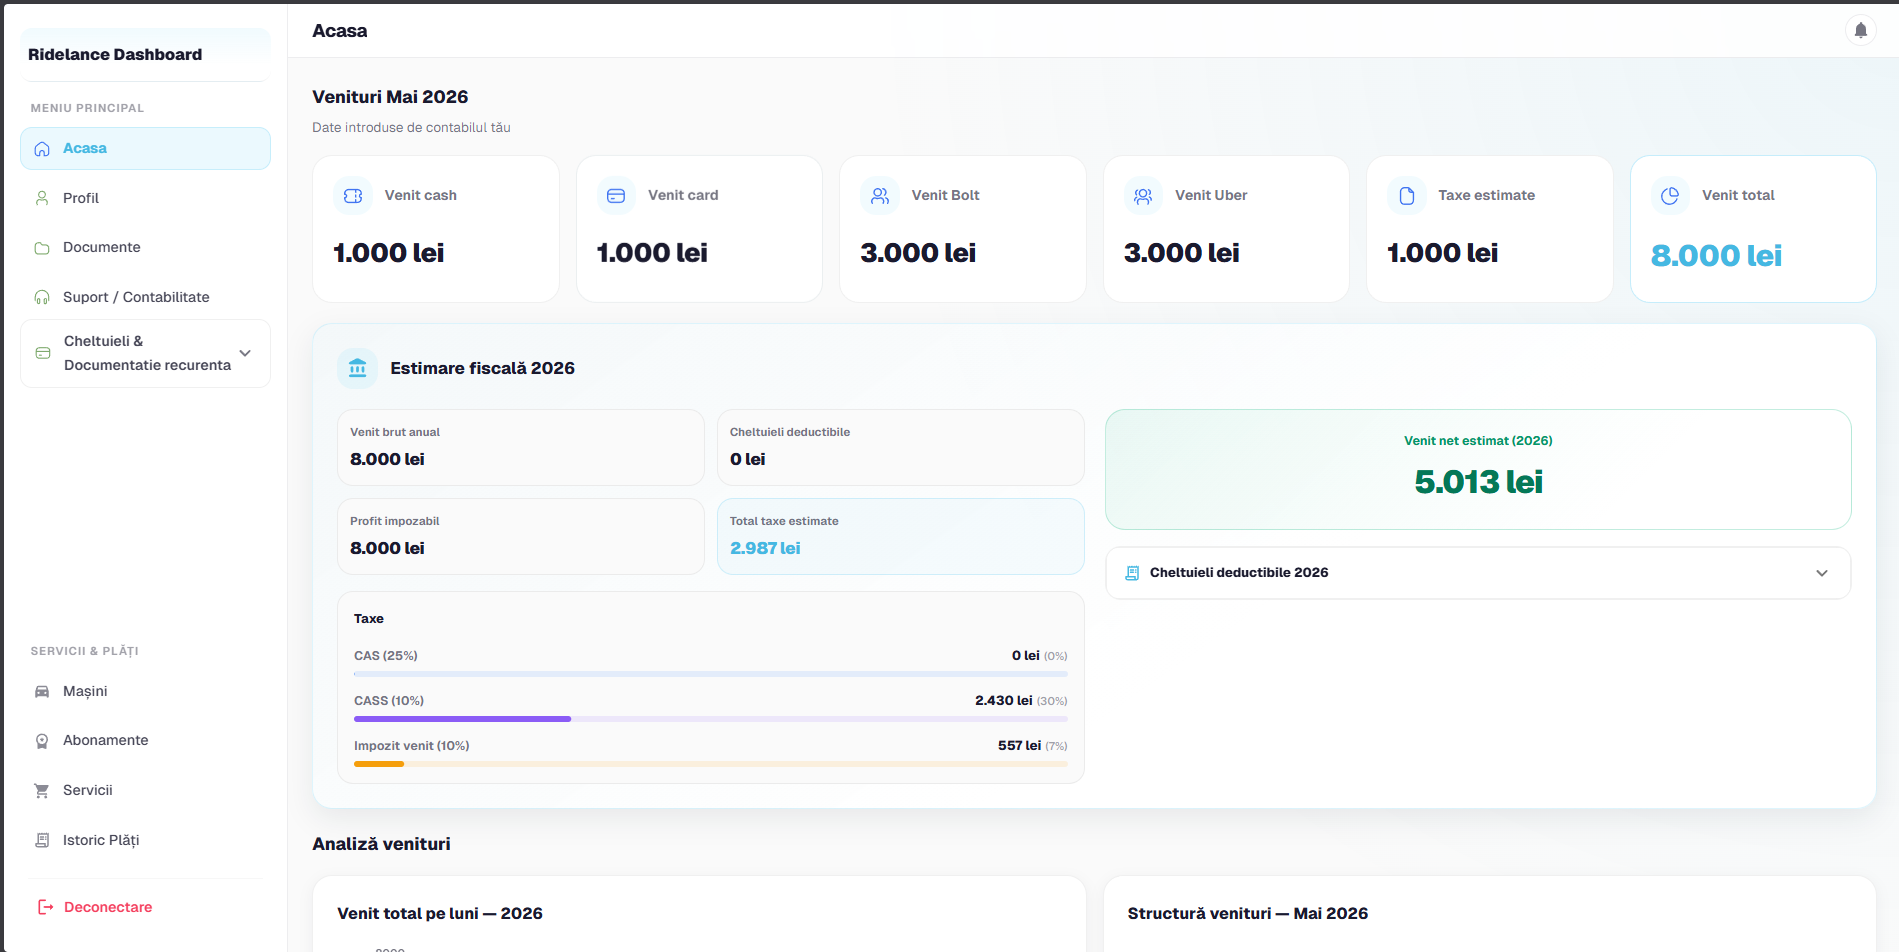
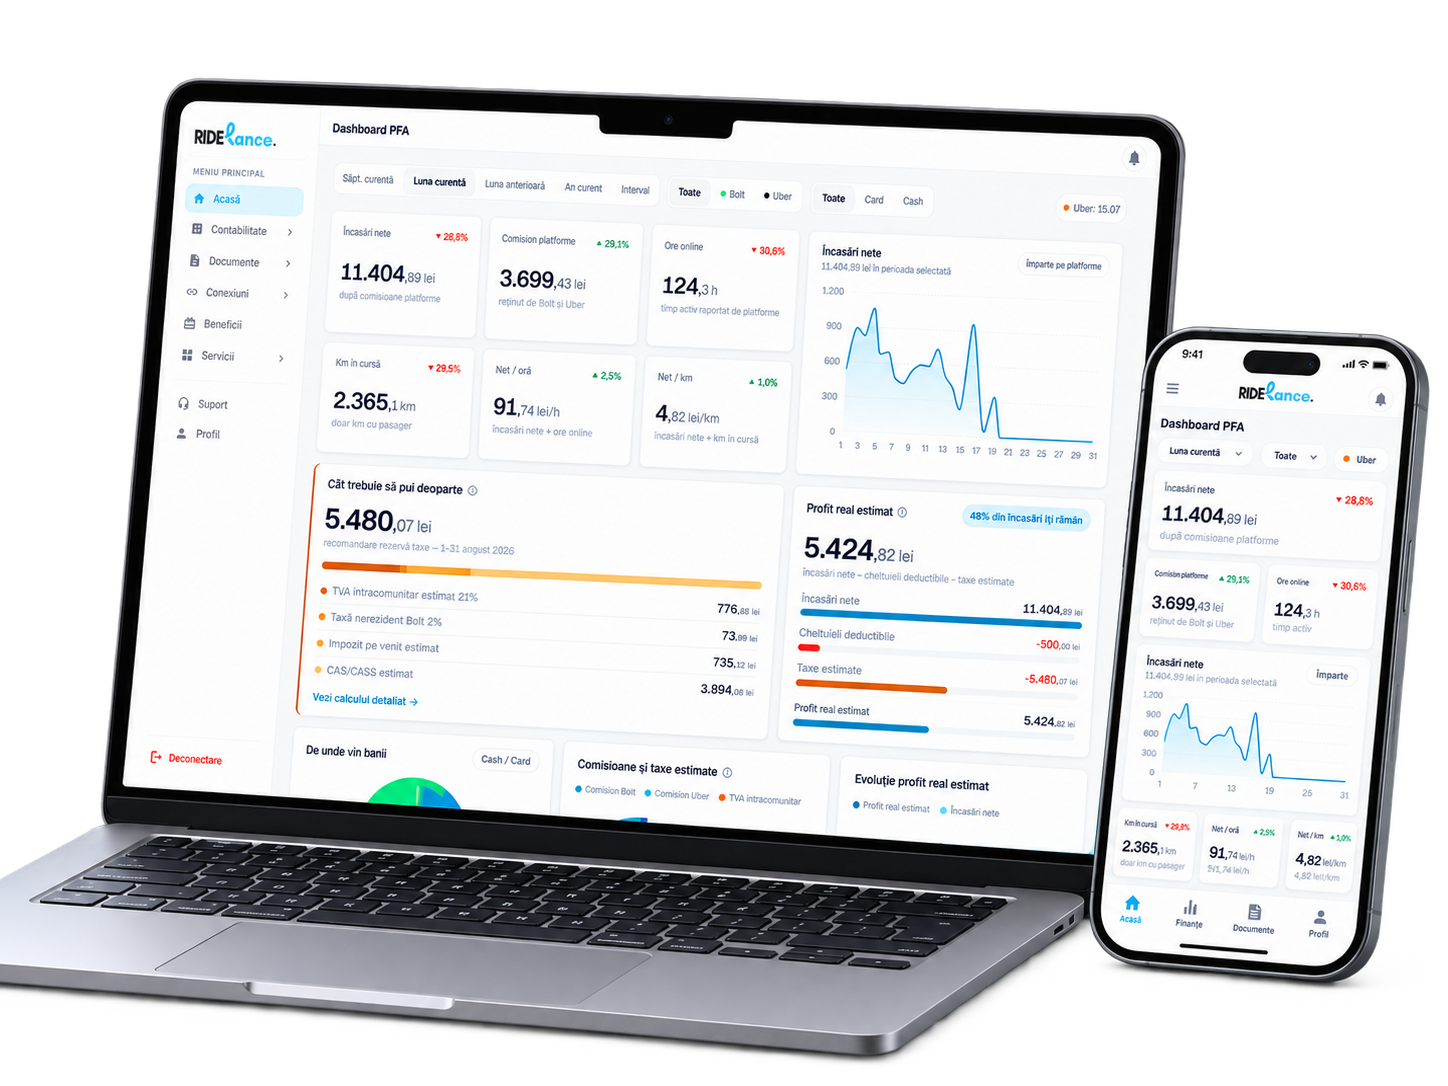
Let the location be changed when editing a car, not only when adding
Coordinates could only ever be set through the add wizard, so every car that predates
it was stuck off the map with no way to place it. The edit dialog now carries the same
address search and pin picker, and dragging the pin fills the city and neighbourhood
back the way it does in the wizard.

details is sent whole rather than as the two coordinates, because Apply overwrites the
whole object on the server: a partial send would have wiped the plate number, the VIN
and the rest of the dossier off any car whose location was edited. The patch goes on
top of what the car already has.

Also drops the note saying Oblio does not expose received invoices. It explained an
absence, which is a thing the page does not need to do.

diff --git a/src/components/dashboard/sections/admin/CarsAdminView.tsx b/src/components/dashboard/sections/admin/CarsAdminView.tsx
@@ -24,7 +24,7 @@ import CheckCircleRoundedIcon from '@mui/icons-material/CheckCircleRounded';
 import PendingActionsRoundedIcon from '@mui/icons-material/PendingActionsRounded';
 import PaymentsRoundedIcon from '@mui/icons-material/PaymentsRounded';
 import TrendingUpRoundedIcon from '@mui/icons-material/TrendingUpRounded';
-import { carsService, getCarImageUrl, type Car, type CarLead } from '../../../../services/cars.service';
+import { carsService, getCarImageUrl, type Car, type CarLead, type CarListingDetails } from '../../../../services/cars.service';
 import carListJson from '../../../../data/car-list.json';
 import {
   formatCarStatus,
@@ -43,6 +43,27 @@ import { ListingScoreIndicator } from '../../srl/ListingScoreIndicator'
 import { Link as RouterLink } from 'react-router-dom'
 import { SRL_PATHS } from '../../../../config/srlNavigation'
 import { AddCarWizard } from '../../addCar/AddCarWizard'
+import { AddressSearch } from '../../../cars/map/AddressSearch'
+import { PinPicker } from '../../../cars/map/LazyMaps'
+import { reverseGeocode } from '../../../../lib/geocoding'
+
+/** Detalii goale, ca punct de plecare când mașina n-are încă niciunul. */
+const BLANK_DETAILS: CarListingDetails = {
+  zone: null,
+  latitude: null,
+  longitude: null,
+  showExactLocation: false,
+  useCompanyContacts: true,
+  color: null,
+  seats: null,
+  minimumPeriod: null,
+  conditions: null,
+  availableFromUtc: null,
+  plateNumber: null,
+  vin: null,
+  mileage: null,
+  firstRegistrationAtUtc: null,
+};
 
 interface LocalImage {
   id: string;
@@ -137,6 +158,35 @@ export function CarsAdminView({ variant = 'admin', posterSection = 'manage' }: C
   const [uploading, setUploading] = useState(false);
   const [dragOver, setDragOver] = useState(false);
   const fileInputRef = useRef<HTMLInputElement>(null);
+
+  /*
+   * Locația se poate schimba și la editare, nu doar la adăugare.
+   *
+   * `details` se trimite întreg, nu doar coordonatele: pe server `Apply` suprascrie tot obiectul,
+   * deci o trimitere parțială ar șterge numărul de înmatriculare, VIN-ul și restul dosarului.
+   * De aceea patch-ul se așază peste ce are deja mașina.
+   */
+  const carDetails: CarListingDetails = { ...BLANK_DETAILS, ...editingCar?.details };
+
+  const patchDetails = (patch: Partial<CarListingDetails>) => {
+    setEditingCar((prev) => (prev ? { ...prev, details: { ...BLANK_DETAILS, ...prev.details, ...patch } } : prev));
+  };
+
+  /** Pinul mutat completează orașul și zona înapoi, la fel ca în wizard. */
+  const placePin = (latitude: number, longitude: number) => {
+    patchDetails({ latitude, longitude });
+    void reverseGeocode(latitude, longitude).then((place) => {
+      if (!place) return;
+      setEditingCar((prev) => {
+        if (!prev) return prev;
+        return {
+          ...prev,
+          location: place.city ?? prev.location,
+          details: { ...BLANK_DETAILS, ...prev.details, latitude, longitude, zone: place.zone ?? prev.details?.zone ?? null },
+        };
+      });
+    });
+  };
 
   const modelsListForSelectedBrand = (() => {
     if (!editingCar?.brand) return [];
@@ -318,6 +368,7 @@ export function CarsAdminView({ variant = 'admin', posterSection = 'manage' }: C
         listingSource: LISTING_SOURCE_TO_API[editingCar.listingSource as string]
           ?? editingCar.listingSource
           ?? 'Ridelance',
+        details: editingCar.details,
       };
 
       if (carId) {
@@ -1078,6 +1129,45 @@ export function CarsAdminView({ variant = 'admin', posterSection = 'manage' }: C
                 </Grid>
                 <Grid size={{ xs: 12, sm: 6, md: 3 }} component="div"><TextField fullWidth label="An Fabricație" type="number" value={editingCar?.year ?? ''} onChange={(e) => setEditingCar({ ...editingCar, year: parseInt(e.target.value) })} /></Grid>
                 <Grid size={{ xs: 12, sm: 6, md: 3 }} component="div"><TextField fullWidth label="Oraș / Locație" value={editingCar?.location ?? ''} onChange={(e) => setEditingCar({ ...editingCar, location: e.target.value })} /></Grid>
+                <Grid size={{ xs: 12 }} component="div">
+                  <Stack spacing={1.5}>
+                    <AddressSearch
+                      value={carDetails.latitude != null ? (editingCar?.location ?? '') : ''}
+                      helperText="Alege o adresă ca să pui pinul, sau apasă direct pe hartă."
+                      onPick={(place) => {
+                        setEditingCar((prev) => (prev ? {
+                          ...prev,
+                          location: place.city ?? prev.location,
+                          details: {
+                            ...BLANK_DETAILS,
+                            ...prev.details,
+                            latitude: place.latitude,
+                            longitude: place.longitude,
+                            zone: place.zone ?? prev.details?.zone ?? null,
+                          },
+                        } : prev));
+                      }}
+                    />
+                    <PinPicker latitude={carDetails.latitude} longitude={carDetails.longitude} onChange={placePin} />
+                    <Stack direction="row" spacing={2}>
+                      <TextField
+                        fullWidth
+                        size="small"
+                        label="Zonă / cartier"
+                        value={carDetails.zone ?? ''}
+                        onChange={(e) => patchDetails({ zone: e.target.value })}
+                      />
+                      {carDetails.latitude != null && (
+                        <Button
+                          onClick={() => patchDetails({ latitude: null, longitude: null })}
+                          sx={{ whiteSpace: 'nowrap', fontWeight: 700, color: DASHBOARD_TOKENS.textSubtle }}
+                        >
+                          Șterge pinul
+                        </Button>
+                      )}
+                    </Stack>
+                  </Stack>
+                </Grid>
                 <Grid size={{ xs: 12, sm: 6, md: 3 }} component="div">
                   <TextField select fullWidth label="Motorizare" value={editingCar?.engine ?? 'GPL'} onChange={(e) => setEditingCar({ ...editingCar, engine: e.target.value })}>
                     {['Electric', 'Hybrid', 'GPL', 'Benzină', 'Diesel'].map(o => <MenuItem key={o} value={o}>{o}</MenuItem>)}

diff --git a/src/components/dashboard/invoices/InvoicesPage.tsx b/src/components/dashboard/invoices/InvoicesPage.tsx
@@ -356,10 +356,6 @@ export function InvoicesPage() {
 
           <OblioConnectPanel connection={connection} onChanged={reload} />
 
-          <Alert severity="info" sx={{ borderRadius: `${DASHBOARD_TOKENS.radius.md}px` }}>
-            Facturile primite nu apar aici: Oblio nu le expune prin API, ele există doar în
-            interfața lor, aduse din SPV.
-          </Alert>
         </>
       )}
     </Stack>
